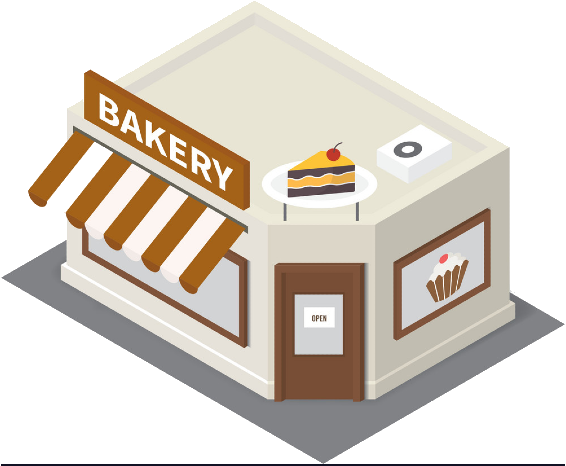
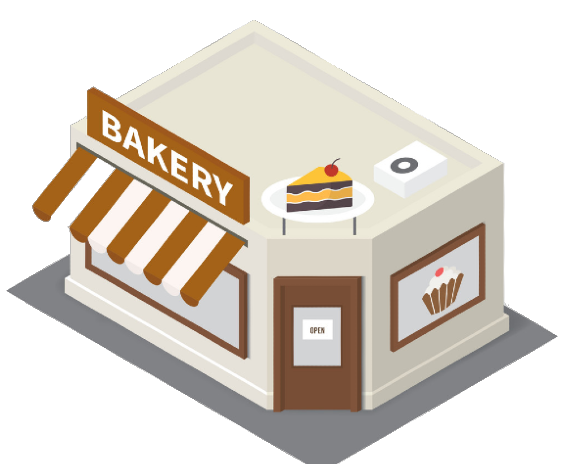
Town Update

diff --git a/SantaEscape.js b/SantaEscape.js
@@ -540,7 +540,7 @@ Minigame.button.onClick = function () {
 Town = new Room('Town', '마을.png')
 Town.house1 = new Object(Town, 'house1', '집_1.png')
 Town.house1.resize(150)
-Town.house1.locate(500, 400)
+Town.house1.locate(500, 360)
 Town.house1.onClick = function () {
     playSound("황당.wav")
     Game.over("빈집털이범으로 오해받았다...\n 그레이스의 집은 어디?")
@@ -548,7 +548,7 @@ Town.house1.onClick = function () {
 
 Town.house2 = new Object(Town, 'house2', '집_2.png')
 Town.house2.resize(150)
-Town.house2.locate(500, 570)
+Town.house2.locate(300, 530)
 Town.house2.onClick = function () {
     playSound("황당.wav")
     Game.over("여긴 티미의 집이었다...\n 그레이스의 집은 어디?")
@@ -556,7 +556,7 @@ Town.house2.onClick = function () {
 
 Town.house4 = new Object(Town, 'house4', '집_4.png')
 Town.house4.resize(150)
-Town.house4.locate(700, 420)
+Town.house4.locate(900, 380)
 Town.house4.onClick = function () {
     playSound("아모르파티.wav")
     Game.over("밤샘파티가 벌어지는 집이었다...\n 하마터면 같이 놀 뻔")
@@ -564,22 +564,23 @@ Town.house4.onClick = function () {
 
 Town.door1 = new Door(Town, 'door1', '집_3.png', '집_3.png', Livingroom)
 Town.door1.resize(150)
-Town.door1.locate(700, 560)
+Town.door1.locate(700, 520)
 Town.door1.onClick = function () {
-    if (!this.id.isLocked() && this.id.isClosed()) {
-        this.id.open()
-    }
-    else if (this.id.isOpened()) {
-        if (this.connectedTo !== undefined) {
-            Game.move(this.connectedTo)
-            printMessage("무사히 그레이스의 집에 도착했다!")
-        }
-        else {
-            Game.end()
-        }
-    }
+        Game.move(this.connectedTo)
+        printMessage("무사히 그레이스의 집에 도착했다!")
 }
 
+Town.hospital = new Object(Town, 'hospital', 'hospital.png')
+Town.hospital.resize(150)
+Town.hospital.locate(700, 380)
+
+Town.bakery = new Object(Town, 'bakery', 'bakery.png')
+Town.bakery.resize(170)
+Town.bakery.locate(500, 530)
+
+Town.school = new Object(Town, 'school', 'school.png')
+Town.school.resize(160)
+Town.school.locate(900, 520)
 
 
 
@@ -1167,4 +1168,4 @@ choiceroom2.text2.locate(640,200)
 
 
 // 게임 시작
-Game.start(startroom, "Merry Christmas!")
+Game.start(Town, "")

diff --git a/README.md b/README.md
@@ -6,7 +6,8 @@
 모든 일을 성공적으로 마쳐야 한다.
 여러 방해를 이겨내고 아이들에게 선물을 전달할 수 있을까?
 
-## 아래는 게임 가이드와 정답입니다. 가이드를 원하지 않는 분들은 아래로 내리지 말아주세요 ##
+## 아래는 게임 가이드와 정답입니다. ##
+## 가이드를 원하지 않는 분들은 아래로 내리지 말아주세요 ##
 -------------------------------------------------------------------------------
 
 ##  썰매 이동 게임 ##
